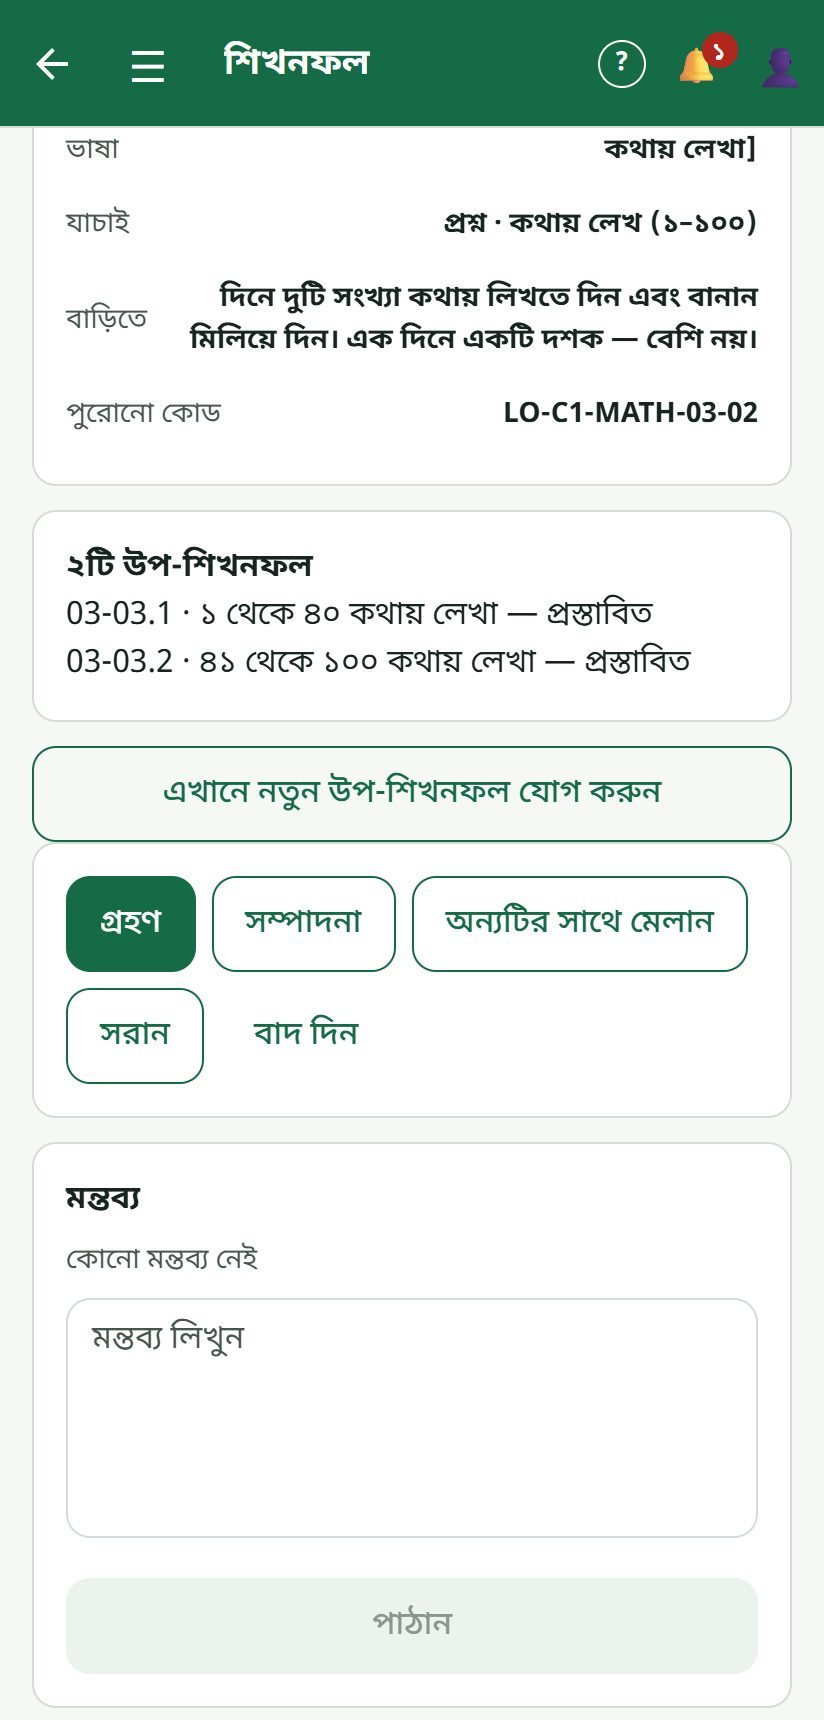
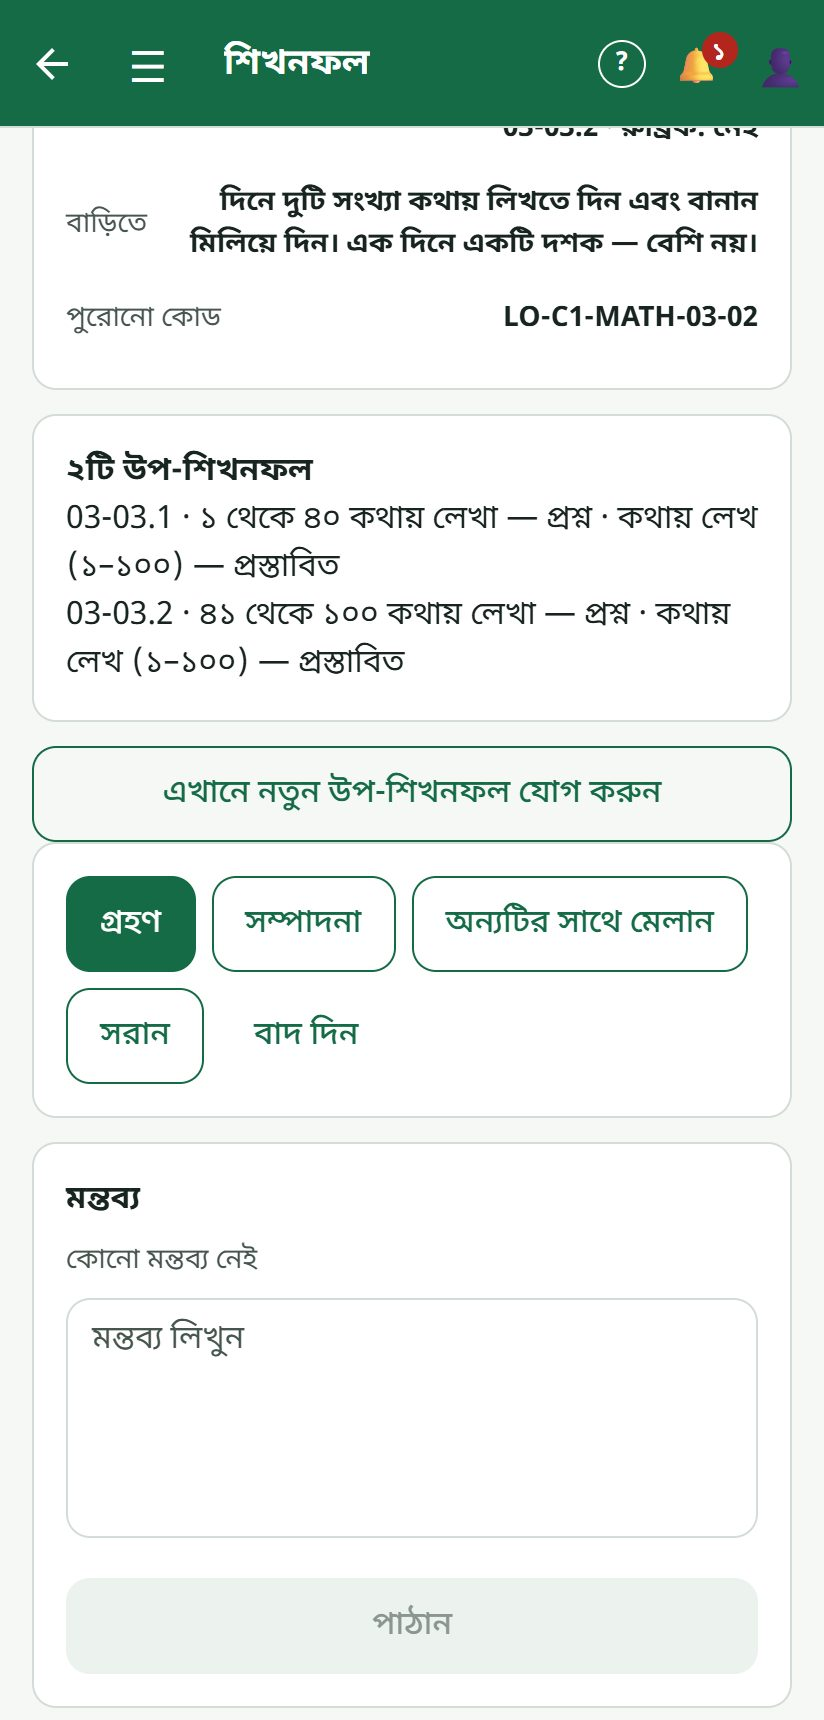
feat(mastery): review screen shows Question + Rubric per sub-objective (D-#1110)
An objective with sub-objectives takes Question/Rubric from its subs; its own
single value no longer applies, but the review screen still showed it, so the
reviewer read it as "one category per LO".

- objective page: "প্রতিটি উপ-শিখনফল-এ আলাদা — প্রশ্ন: … · রুব্রিক: …"
- objective edit form hides the Question/Rubric + type choice
- list card: "প্রশ্ন + রুব্রিক" badge when the subs mix both
- sub page: all siblings with their assess + question types
- childAssessMix (shared/objectiveTree.ts) + DB-free test
- help: new guide mastery-review-assess; edit/add-sub pictures re-shot

Changed region(s): [[0.0303, 0.0616, 0.9709, 0.4006], [0.091, 0.0616, 0.1517, 0.0924]]

diff --git a/app/src/screens/mastery/MasteryReviewRowScreen.tsx b/app/src/screens/mastery/MasteryReviewRowScreen.tsx
@@ -6,6 +6,10 @@
  * rule named. The row's comment threads sit underneath.
  *
  * The screen title is the row's level word from useMasteryLevelLabels (D-#923).
+ *
+ * D-#1110: an objective with sub-objectives has no Question/Rubric of its own — the card shows which
+ * subs are questions and which are rubric, the edit form hides the choice, and a sub lists all its
+ * siblings (with their assess + question types) so a written sibling of an oral step is visible.
  */
 import React, { useState } from "react";
 import { View } from "react-native";
@@ -14,6 +18,7 @@ import { MASTERY_REVIEW_DECIDE, type ReviewDecisionInput, type ReviewQueue, type
 import { Screen, Card, Body, Muted, Badge, Button, Chip, ChipRow, Field, Loader, Notice, Row, Select } from "../../components/ui";
 import { STR, bnNum } from "../../lib/labels";
 import { useMasteryLevelLabels } from "../../lib/useMasteryLevelLabels";
+import { childAssessMix } from "@scd/shared";
 import { space } from "../../theme";
 import { fill } from "./masteryStateUi";
 import { ReviewThreads, TapText, codeTail, formatExerciseRef, reviewStateLabel, reviewStateTone, useReviewAction, useReviewQueue } from "./masteryReviewUi";
@@ -30,7 +35,7 @@ const lines = (t: string) =>
     .map((x) => x.trim())
     .filter(Boolean);
 
-function EditForm({ q, r, run, busy }: { q: ReviewQueue; r: ReviewRow; run: (i: ReviewDecisionInput) => void; busy: boolean }): React.ReactElement {
+function EditForm({ q, r, run, busy, hasKids }: { q: ReviewQueue; r: ReviewRow; run: (i: ReviewDecisionInput) => void; busy: boolean; hasKids: boolean }): React.ReactElement {
   const levels = useMasteryLevelLabels();
   const [label, setLabel] = useState(r.labelBn);
   const [labelEn, setLabelEn] = useState(r.labelEn ?? "");
@@ -44,17 +49,26 @@ function EditForm({ q, r, run, busy }: { q: ReviewQueue; r: ReviewRow; run: (i: 
     <View style={{ gap: space(2) }}>
       <Field label={STR.msRvLabel} value={label} onChangeText={setLabel} multiline />
       <Field label={STR.msRvLabelEn} value={labelEn} onChangeText={setLabelEn} />
-      <Muted>{STR.msRvAssess}</Muted>
-      <ChipRow>
-        <Chip label={STR.msRvAssessQ} selected={assess === "QUESTION"} onPress={() => setAssess("QUESTION")} />
-        <Chip label={STR.msRvAssessR} selected={assess === "RUBRIC"} onPress={() => setAssess("RUBRIC")} />
-      </ChipRow>
-      <Muted>{STR.msQuestionTypes}</Muted>
-      <ChipRow>
-        {q.questionTypes.map((t) => (
-          <Chip key={t.code} label={t.labelBn || t.code} selected={qts.includes(t.code)} onPress={() => setQts((p) => (p.includes(t.code) ? p.filter((x) => x !== t.code) : [...p, t.code]))} />
-        ))}
-      </ChipRow>
+      {hasKids ? (
+        // D-#1110: an objective with sub-objectives has no Question/Rubric of its own — each sub sets it.
+        <Muted>
+          {STR.msRvAssess}: {fill(STR.msRvAssessOnSubsTpl, { sub: levels.sub })}
+        </Muted>
+      ) : (
+        <>
+          <Muted>{STR.msRvAssess}</Muted>
+          <ChipRow>
+            <Chip label={STR.msRvAssessQ} selected={assess === "QUESTION"} onPress={() => setAssess("QUESTION")} />
+            <Chip label={STR.msRvAssessR} selected={assess === "RUBRIC"} onPress={() => setAssess("RUBRIC")} />
+          </ChipRow>
+          <Muted>{STR.msQuestionTypes}</Muted>
+          <ChipRow>
+            {q.questionTypes.map((t) => (
+              <Chip key={t.code} label={t.labelBn || t.code} selected={qts.includes(t.code)} onPress={() => setQts((p) => (p.includes(t.code) ? p.filter((x) => x !== t.code) : [...p, t.code]))} />
+            ))}
+          </ChipRow>
+        </>
+      )}
       <Field label={STR.msRvPrereqCodes} value={prereqs} onChangeText={setPrereqs} multiline />
       {r.level !== "SUB" ? (
         <>
@@ -72,8 +86,8 @@ function EditForm({ q, r, run, busy }: { q: ReviewQueue; r: ReviewRow; run: (i: 
             code: r.code,
             labelBn: label,
             labelEn,
-            assess,
-            questionTypeCodes: qts,
+            assess: hasKids ? undefined : assess,
+            questionTypeCodes: hasKids ? undefined : qts,
             prereqCodes: lines(prereqs),
             homeTipBn: r.level !== "SUB" ? tip : undefined,
             domainCode: r.level !== "SUB" ? domain : undefined,
@@ -139,6 +153,14 @@ export default function MasteryReviewRowScreen({ navigation, route }: Props): Re
   const domain = q.domains.find((d) => d.code === r.domainCode);
   const kids = q.rows.filter((x) => x.parentCode === r.code && !isOut(x));
   const qtLabel = new Map(q.questionTypes.map((t) => [t.code, t.labelBn || t.code]));
+  const assessLine = (x: ReviewRow) =>
+    `${x.assess === "RUBRIC" ? STR.msRvAssessR : STR.msRvAssessQ} · ${x.questionTypeCodes.map((c) => qtLabel.get(c) ?? c).join(", ")}`;
+  // D-#1110: an objective with sub-objectives shows the mix its subs set, not its own single value;
+  // a sub lists every sub of its objective so a written sibling of an oral step is in plain sight.
+  const mix = kids.length > 0 ? childAssessMix(kids) : null;
+  const tails = (codes: string[]) => (codes.length ? codes.map(codeTail).join(", ") : STR.msRvNone);
+  const siblings = r.level === "SUB" && parent ? q.rows.filter((x) => x.parentCode === parent.code && !isOut(x)) : [];
+  const stepLine = (k: ReviewRow) => `${codeTail(k.code)} · ${k.labelBn} — ${assessLine(k)} — ${reviewStateLabel(k.reviewState)}`;
   const editable = q.canWrite && r.status === "DRAFT" && !r.mergedInto;
   const live = editable && r.reviewState !== "REJECTED";
   // D-#1016: add a step where the reviewer is reading — on an objective that already has steps (a leaf
@@ -191,7 +213,7 @@ export default function MasteryReviewRowScreen({ navigation, route }: Props): Re
         {r.sourceText ? <Row label={STR.msRvBookWording} value={r.sourceText} /> : null}
         <Row
           label={STR.msRvAssess}
-          value={`${r.assess === "RUBRIC" ? STR.msRvAssessR : STR.msRvAssessQ} · ${r.questionTypeCodes.map((c) => qtLabel.get(c) ?? c).join(", ")}`}
+          value={mix ? fill(STR.msRvAssessBySubTpl, { sub: levels.sub, q: tails(mix.question), r: tails(mix.rubric) }) : assessLine(r)}
         />
         {r.prereqCodes.length ? (
           <Row label={STR.msRvPrereq} value={r.prereqCodes.map((c) => `${byCode.get(c)?.labelBn ?? ""} (${codeTail(c)})`).join("\n")} />
@@ -215,9 +237,26 @@ export default function MasteryReviewRowScreen({ navigation, route }: Props): Re
           <Body style={{ fontWeight: "700" }}>{fill(STR.msRvChildrenTpl, { n: bnNum(kids.length), sub: levels.sub })}</Body>
           {kids.map((k) => (
             <TapText key={k.code} onPress={() => navigation.push("MasteryReviewRow", { reviewId: q.id, code: k.code })}>
-              {codeTail(k.code)} · {k.labelBn} — {reviewStateLabel(k.reviewState)}
+              {stepLine(k)}
             </TapText>
           ))}
+        </Card>
+      ) : null}
+
+      {siblings.length > 1 ? (
+        <Card>
+          <Body style={{ fontWeight: "700" }}>{fill(STR.msRvSiblingsTpl, { objective: levels.objective, sub: levels.sub })}</Body>
+          {siblings.map((k) =>
+            k.code === r.code ? (
+              <Body key={k.code} style={{ fontWeight: "700" }}>
+                {stepLine(k)}
+              </Body>
+            ) : (
+              <TapText key={k.code} onPress={() => navigation.replace("MasteryReviewRow", { reviewId: q.id, code: k.code })}>
+                {stepLine(k)}
+              </TapText>
+            ),
+          )}
         </Card>
       ) : null}
 
@@ -247,7 +286,7 @@ export default function MasteryReviewRowScreen({ navigation, route }: Props): Re
             {live ? <Button title={STR.msRvMove} variant={mode === "MOVE" ? "primary" : "secondary"} onPress={() => setMode(mode === "MOVE" ? null : "MOVE")} /> : null}
             {live ? <Button title={STR.msRvRejectFull} variant="ghost" onPress={() => setMode(mode === "REJECT" ? null : "REJECT")} /> : null}
           </View>
-          {mode === "EDIT" ? <EditForm q={q} r={r} run={run} busy={act.busy} /> : null}
+          {mode === "EDIT" ? <EditForm q={q} r={r} run={run} busy={act.busy} hasKids={kids.length > 0} /> : null}
           {mode === "SPLIT" ? <SplitForm r={r} run={run} busy={act.busy} /> : null}
           {mode === "MERGE" ? (
             <View style={{ gap: space(2) }}>

diff --git a/server/src/__tests__/masteryChildAssessMix.test.ts b/server/src/__tests__/masteryChildAssessMix.test.ts
@@ -1,0 +1,45 @@
+/**
+ * D-#1110 — an objective with sub-objectives takes Question / Rubric from its tagged children
+ * (childAssessMix, shared/objectiveTree.ts). The review screen shows this instead of the
+ * objective's own single value, which no longer applies once it has children.
+ * DB-free.
+ */
+import fs from "node:fs";
+import path from "node:path";
+import { childAssessMix, readTreeFile } from "@scd/shared";
+
+describe("childAssessMix (D-#1110)", () => {
+  it("splits tagged children by Question / Rubric and flags a mix", () => {
+    const mix = childAssessMix([
+      { code: "A.1", assess: "RUBRIC", tagged: true },
+      { code: "A.2", assess: "RUBRIC", tagged: true },
+      { code: "A.3", assess: "QUESTION", tagged: true },
+    ]);
+    expect(mix).toEqual({ question: ["A.3"], rubric: ["A.1", "A.2"], mixed: true });
+  });
+
+  it("is not mixed when every child is one kind", () => {
+    expect(childAssessMix([{ code: "B.1", assess: "QUESTION", tagged: true }, { code: "B.2", assess: "QUESTION", tagged: true }]).mixed).toBe(false);
+    expect(childAssessMix([]).mixed).toBe(false);
+  });
+
+  it("leaves out untagged (grouping) children and reads a missing assess as Question", () => {
+    const mix = childAssessMix([
+      { code: "C.1", assess: "RUBRIC", tagged: false },
+      { code: "C.2", assess: null, tagged: true },
+    ]);
+    expect(mix).toEqual({ question: ["C.2"], rubric: [], mixed: false });
+  });
+
+  it("the C1 Math draft already mixes both kinds on the objectives the reviewer named", () => {
+    const raw = JSON.parse(fs.readFileSync(path.resolve(__dirname, "../../../docs/mastery/objective-tree/C1_MATH.tree.json"), "utf8"));
+    const read = readTreeFile(raw);
+    if (!read.ok) throw new Error(read.errors.join("\n"));
+    const nodes = read.tree.nodes;
+    const mixOf = (code: string) =>
+      childAssessMix(nodes.filter((n) => n.parentCode === code).map((n) => ({ code: n.code, assess: n.assess, tagged: n.tagged })));
+    for (const code of ["LO-C1-MATH-06-01", "LO-C1-MATH-10-01", "LO-C1-MATH-11-01", "LO-C1-MATH-12-01", "LO-C1-MATH-12-05"]) {
+      expect(mixOf(code).mixed).toBe(true);
+    }
+  });
+});

diff --git a/app/src/screens/mastery/MasteryReviewScreen.tsx b/app/src/screens/mastery/MasteryReviewScreen.tsx
@@ -27,6 +27,7 @@ import {
 import { Screen, Card, Body, Muted, Badge, Button, Chip, ChipRow, Field, Loader, Notice, Select } from "../../components/ui";
 import { STR, bnNum, hwSubjectLabel, masteryClassLabel } from "../../lib/labels";
 import { useMasteryLevelLabels } from "../../lib/useMasteryLevelLabels";
+import { childAssessMix } from "@scd/shared";
 import { space, useColors } from "../../theme";
 import { fill } from "./masteryStateUi";
 import {
@@ -187,7 +188,10 @@ function GroupCard({ q, g, onOpen, pendingOnly }: { q: ReviewQueue; g: Group; on
   const all = [g.objective, ...g.children];
   const proposed = all.filter((r) => r.status === "DRAFT" && r.reviewState === "PROPOSED" && !r.mergedInto);
   const shown = pendingOnly ? proposed : all;
-  const liveKids = g.children.filter((c) => !isOut(c)).length;
+  const live = g.children.filter((c) => !isOut(c));
+  const liveKids = live.length;
+  // D-#1110: an objective whose subs mix written questions and the rubric says so on the card.
+  const mixed = childAssessMix(live).mixed;
   return (
     <Card>
       <View style={{ flexDirection: "row", justifyContent: "space-between", gap: space(2), flexWrap: "wrap" }}>
@@ -200,6 +204,7 @@ function GroupCard({ q, g, onOpen, pendingOnly }: { q: ReviewQueue; g: Group; on
         <View style={{ flexDirection: "row", gap: space(1), flexWrap: "wrap" }}>
           <Badge text={levels.objective} tone="info" />
           {liveKids > 0 ? <Badge text={fill(STR.msRvChildrenTpl, { n: bnNum(liveKids), sub: levels.sub })} tone="muted" /> : null}
+          {mixed ? <Badge text={STR.msRvAssessMixed} tone="gold" /> : null}
         </View>
       </View>
       {shown.map((r) => (

diff --git a/shared/objectiveTree.ts b/shared/objectiveTree.ts
@@ -425,3 +425,32 @@ export function readDomainsFile(raw: unknown): { ok: true; domains: DomainsFile 
   if (errors.length > 0) return { ok: false, errors };
   return { ok: true, domains: { format: OBJECTIVE_DOMAINS_FORMAT, subject, domains } };
 }
+
+// ---------------------------------------------------------------------------
+// D-#1110: an objective with sub-objectives takes Question / Rubric from them
+// ---------------------------------------------------------------------------
+
+export interface AssessChild {
+  code: string;
+  assess: string | null | undefined;
+  tagged: boolean;
+}
+
+export interface ChildAssessMix {
+  /** Tagged children set to QUESTION, in the order given. */
+  question: string[];
+  /** Tagged children set to RUBRIC, in the order given. */
+  rubric: string[];
+  /** Both kinds present: the objective is checked partly by written questions, partly by the rubric. */
+  mixed: boolean;
+}
+
+/** How an objective with sub-objectives is assessed (D-#1110). Each tagged child carries its own
+ *  Question/Rubric choice; the objective's own `assess` value no longer applies once it has
+ *  children. The caller passes live children only (rejected / merged-away rows left out). */
+export function childAssessMix(children: AssessChild[]): ChildAssessMix {
+  const tagged = children.filter((c) => c.tagged);
+  const question = tagged.filter((c) => c.assess !== "RUBRIC").map((c) => c.code);
+  const rubric = tagged.filter((c) => c.assess === "RUBRIC").map((c) => c.code);
+  return { question, rubric, mixed: question.length > 0 && rubric.length > 0 };
+}

diff --git a/app/src/lib/labels.ts b/app/src/lib/labels.ts
@@ -7075,6 +7075,12 @@ const STR_BN = {
   msRvAssess: "যাচাই",
   msRvAssessQ: "প্রশ্ন",
   msRvAssessR: "রুব্রিক",
+  // D-#1110: an objective with sub-objectives takes Question / Rubric from them.
+  msRvAssessMixed: "প্রশ্ন + রুব্রিক",
+  msRvAssessBySubTpl: "প্রতিটি {sub}-এ আলাদা — প্রশ্ন: {q} · রুব্রিক: {r}",
+  msRvAssessOnSubsTpl: "প্রশ্ন না রুব্রিক, আর প্রশ্নের ধরন — প্রতিটি {sub}-এ আলাদা ঠিক হয়। নিচের তালিকা থেকে {sub} খুলে বদলান।",
+  msRvSiblingsTpl: "একই {objective}-এর সব {sub}",
+  msRvNone: "নেই",
   msRvPrereq: "আগের ধাপ",
   msRvHomeTip: "বাড়িতে",
   msRvClaudeNote: "Claude-এর নোট",
@@ -14542,6 +14548,12 @@ const STR_EN: StrTable = {
   msRvAssess: "Assess",
   msRvAssessQ: "Question",
   msRvAssessR: "Rubric",
+  // D-#1110: an objective with sub-objectives takes Question / Rubric from them.
+  msRvAssessMixed: "Question + Rubric",
+  msRvAssessBySubTpl: "Set on each {sub} — Question: {q} · Rubric: {r}",
+  msRvAssessOnSubsTpl: "Question or rubric, and the question types, are set on each {sub}. Open a {sub} from the list below to change it.",
+  msRvSiblingsTpl: "All {sub} of this {objective}",
+  msRvNone: "none",
   msRvPrereq: "Earlier step",
   msRvHomeTip: "At home",
   msRvClaudeNote: "Claude's note",

diff --git a/STATUS.md b/STATUS.md
@@ -1,5 +1,10 @@
 # STATUS
 
+- 2026-11-08: **BUILT — review screen shows Question + Rubric per sub-objective (D-#1110)** (branch `feat/review-objective-assess-summary`, worktree `C:/w/rvsum`). From Mahzabin's C1 Maths review feedback ("allow both Question and Rubric in the same LO" — already possible per sub; the objective page hid it).
+  - **Prod data, same day (owner OK, via dist services, read back):** C1 MATH round 1 REOPENED (was SUBMITTED) by the Principal; QT-CONVERT added ("রূপান্তর কর — জোড়া, হালি, ডজন (সমান কিনা)"); QT-SOLVE relabelled "যোগ কর / বিয়োগ কর — খাড়া বা পাশাপাশি বিন্যাসে"; 01-02 → QT-MATCH + QT-BLANK; 02-01 → QT-COUNT + QT-MCQ; 12-04.1 → QT-CONVERT + QT-WORD; calendar Ex 4 removed from 12-04. SK-COL-01 left RUBRIC (D-#1110). Her 9 comments are still open; she now adds 03-03's five subs, answers, and submits again.
+  - **Audit of the other 14 trees:** C1 Maths was the outlier (drafted before QT-SHORT / two-layout QT-SOLVE existed); no other tree needs a type change now.
+  - **Verified:** help verifier PASS; shared + server + app tsc 0; jest mastery + helpGuides 14 suites / 194 tests; local capture walk on in-memory Mongo (pictures show the summary + siblings card). Not walked: the objective edit form with the hidden choice (round locks during the walk).
+  - **Now / next:** PR → dev → promote → OTA.
 - 2026-11-08: **LIVE + OTA — Nursery & KG oral exam (viva), D-#1080–#1084**: #1397 → dev, promoted in #1398 (prod `5f782f6c`, deploy green); OTA group `a204265c` (runtime 1.1.0; prod URL, no localhost, GlitchTip host; source maps 1 of 2).
   - **Now / next:** Office opens **মৌখিক পরীক্ষা** on prod (papers create themselves from the routine) and types the real questions before Thu 26 Nov — Nursery Bangla/English questions are in the ORAL sections of `server/assets/exam-papers/annual-2026/L-1-BAN.json` / `L-1-ENG.json`; check each paper's examiner. Help guides `exam-viva-*` are drafts until screenshots. The printed Nursery Bangla/English written papers should drop their oral section. Owner-deferred: questions not asked to a child, per-child questions.
 - 2026-11-08: **BUILT — school notice notification (D-#1072)** (branch `feat/school-notice`, worktree `C:/w/notice`). New kind `SCHOOL_NOTICE`; `notifyPopupRecipients` notifies a published pop-up notice's people.

diff --git a/CHANGELOG.md b/CHANGELOG.md
@@ -1746,3 +1746,4 @@ Versioning is by git tag; this file is the human-readable "what shipped" ledger.
 - 2026-11-06 | Add | **Nursery & KG oral exam (viva), VV-1 + VV-2 (D-#1080–#1084):** new `viva` module — one paper per ORAL slot of the exam routine, seeded from the syllabus oral rows; Office edits questions/marks (until the first mark), sets examiners, watches live progress, results, per-paper lock; teachers tap marks per question under each child's name (live, halves), absent = 0; Today card; `viva:*` permissions; 4 draft help guides; `docs/prd-viva.md`. Branch `feat/nkg-viva`.
 - 2026-11-08 | Docs | **AI Assist PRD planned (D-#1090–#1105):** `docs/prd-ai-assist.md` — DeepSeek + Gemini behind one provider interface, one metered `AiUsage` ledger with caps that refuse before sending, versioned AI rules, de-identification, a comment checker (daily comments + the existing `ClassTestResult` class-test comment fields), a separate `ai-assist` teacher chat and Principal analytics; owner rulings of 2026-11-08 recorded; pre-flight notes P1–P10 adapt the plan to the live repo (no branch model, four Gemini callers, no fitting analytics permission).
 - 2026-11-08 | Release | **Nursery & KG oral exam (viva) live (D-#1080–#1084):** #1397 → dev (`2d9d9350`), promoted in #1398 (main `5f782f6c`, prod deploy green); OTA group `a204265c` (runtime 1.1.0, commit 5f782f6c; bundle prod URL 1 / localhost 0 / GlitchTip host 1; source maps uploaded 1 of 2 as usual). The OTA also carries #1394 (pre-primary ids CK/CN). Help guides `exam-viva-*` stay drafts until screenshots.
+- 2026-11-08 | Mastery | **Review screen: Question + Rubric per sub-objective made visible (D-#1110):** an objective with subs shows "প্রতিটি উপ-শিখনফল-এ আলাদা — প্রশ্ন: … · রুব্রিক: …" instead of its own single value, hides the Question/Rubric choice in its edit form, gets a "প্রশ্ন + রুব্রিক" badge on the list, and each sub lists all its siblings with assess + question types. `childAssessMix` in shared/objectiveTree.ts + DB-free test; new help guide `mastery-review-assess`, `mastery-review-edit` / `-add-sub` pictures re-shot.

diff --git a/DECISIONS.md b/DECISIONS.md
@@ -1416,3 +1416,4 @@ never reaches this table.
 | D-#1103 | 2026-11-08 | **AI monthly caps (Sylhet): comment checker $3, assistant $5, global $8; the Principal gets an in-app alert at 70 % of any monthly cap.** Daily defaults: 80 comment checks per teacher, 30 assistant turns per teacher, 40 turns per assistant session. Every cap is a config value the Principal changes in the app, not a constant. | Owner 2026-11-08 (Claude Desktop planning) |
 | D-#1104 | 2026-11-08 | **A teacher sees only their own assistant chats; the Principal can read all; nobody else.** Teachers are told this once, on first use. | Owner 2026-11-08 (Claude Desktop planning) |
 | D-#1105 | 2026-11-08 | **Assistant chats are kept indefinitely; no automatic deletion is built.** A later, separate slice gives the Principal an in-app delete (by month, by teacher, or by date range); `AiAssistMessage` indexes `at` and `teacherId` so that delete is a simple filtered delete. `AiUsage` rows hold no text and are never deleted. | Owner 2026-11-08 (Claude Desktop planning) |
+| D-#1110 | 2026-11-08 | **An objective with sub-objectives takes Question / Rubric from its subs; its own value no longer applies.** Each tagged sub keeps its own `assess` + question types, so one objective may be checked partly by written questions and partly by the rubric (already true in the data — C1 Maths 06-01, 10-01, 11-01, 12-01, 12-05 mix both). The review screen showed the objective's own single value, so the reviewer (Mahzabin, C1 Maths round 1) read it as "only one category per LO". Now: the objective page shows which subs are প্রশ্ন and which রুব্রিক (`childAssessMix`, shared/objectiveTree.ts), its edit form hides the choice, the list card gets a "প্রশ্ন + রুব্রিক" badge, and a sub lists all its siblings with their assess + types. Where one leaf needs both, split it (D-#921 rule: split when a child can pass one part and fail the other). Skill-strand rows (SK-COL) stay RUBRIC: their evidence is the diagnosis tag on written sums, and a sum already carries its own code (D-#776). | Owner 2026-11-08 (Mahzabin's C1 Maths review feedback) |
